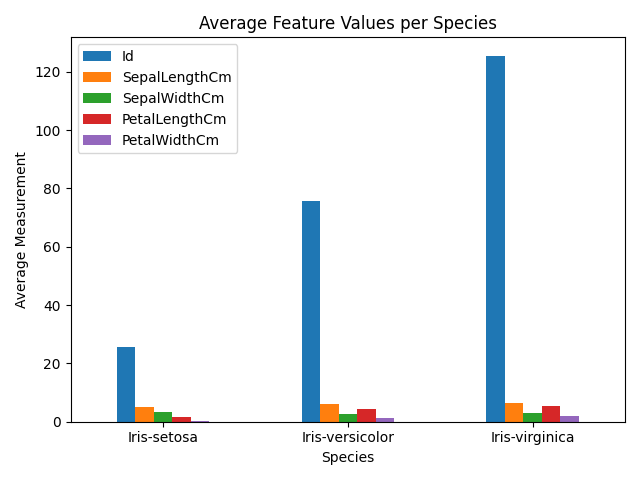
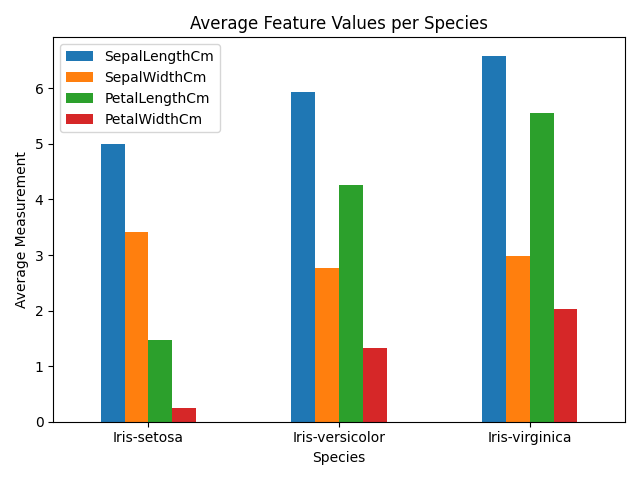
Removed Id column and updated visualizations

diff --git a/Iris.py b/Iris.py
@@ -8,7 +8,8 @@ import os
 df = pd.read_csv("iris.csv")      
 print("Dataset Loaded Successfully")
 
-df = df.drop(columns=['Id'])        #it is only an index column.
+
+df = df.drop(columns=['Id'])        #it is only an index column
 
 print(df.head())
 print("\nColumns:", df.columns)
